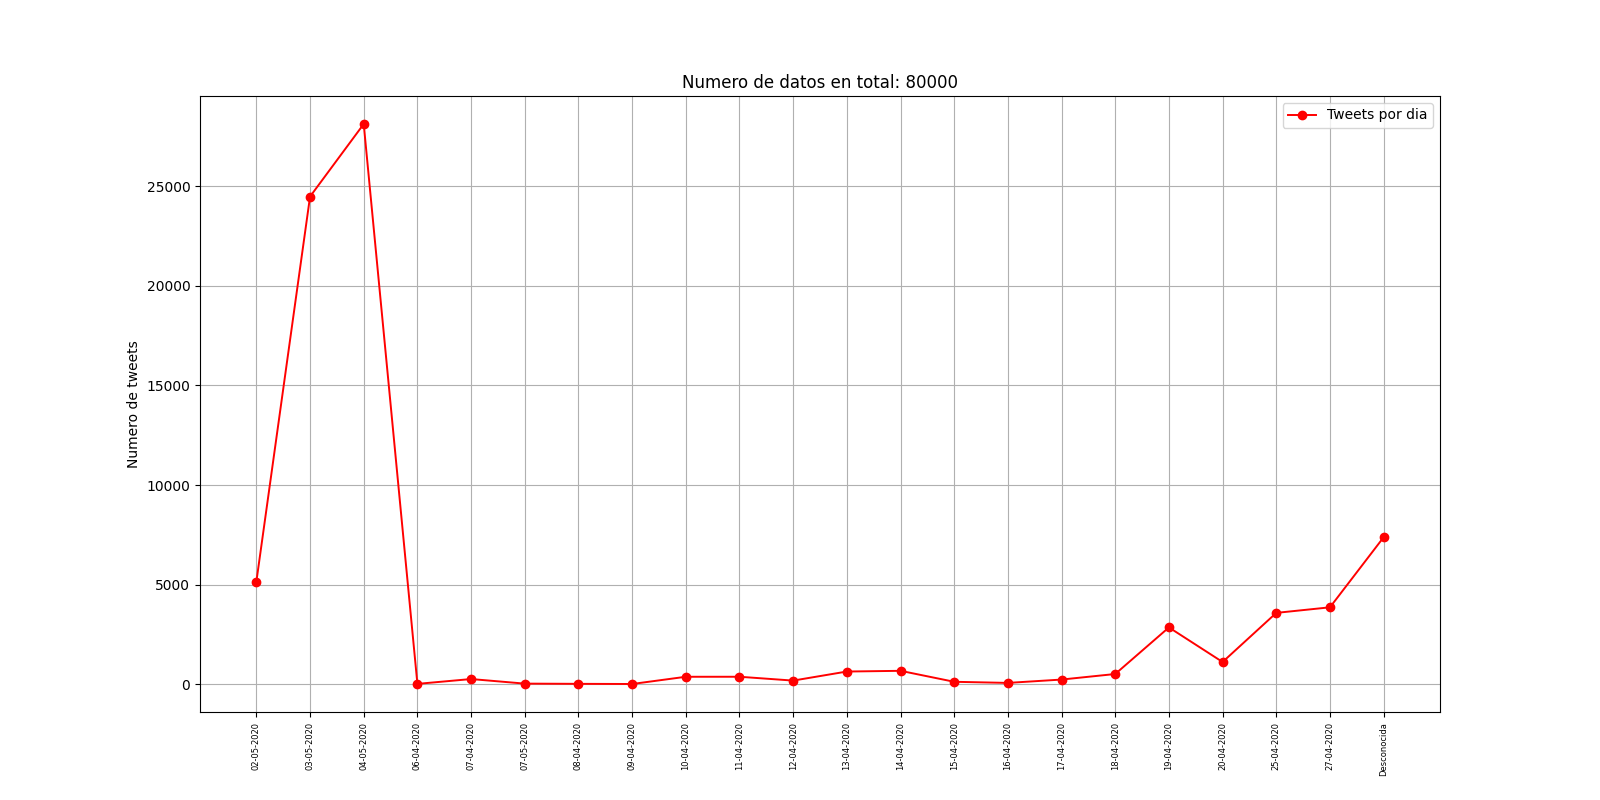
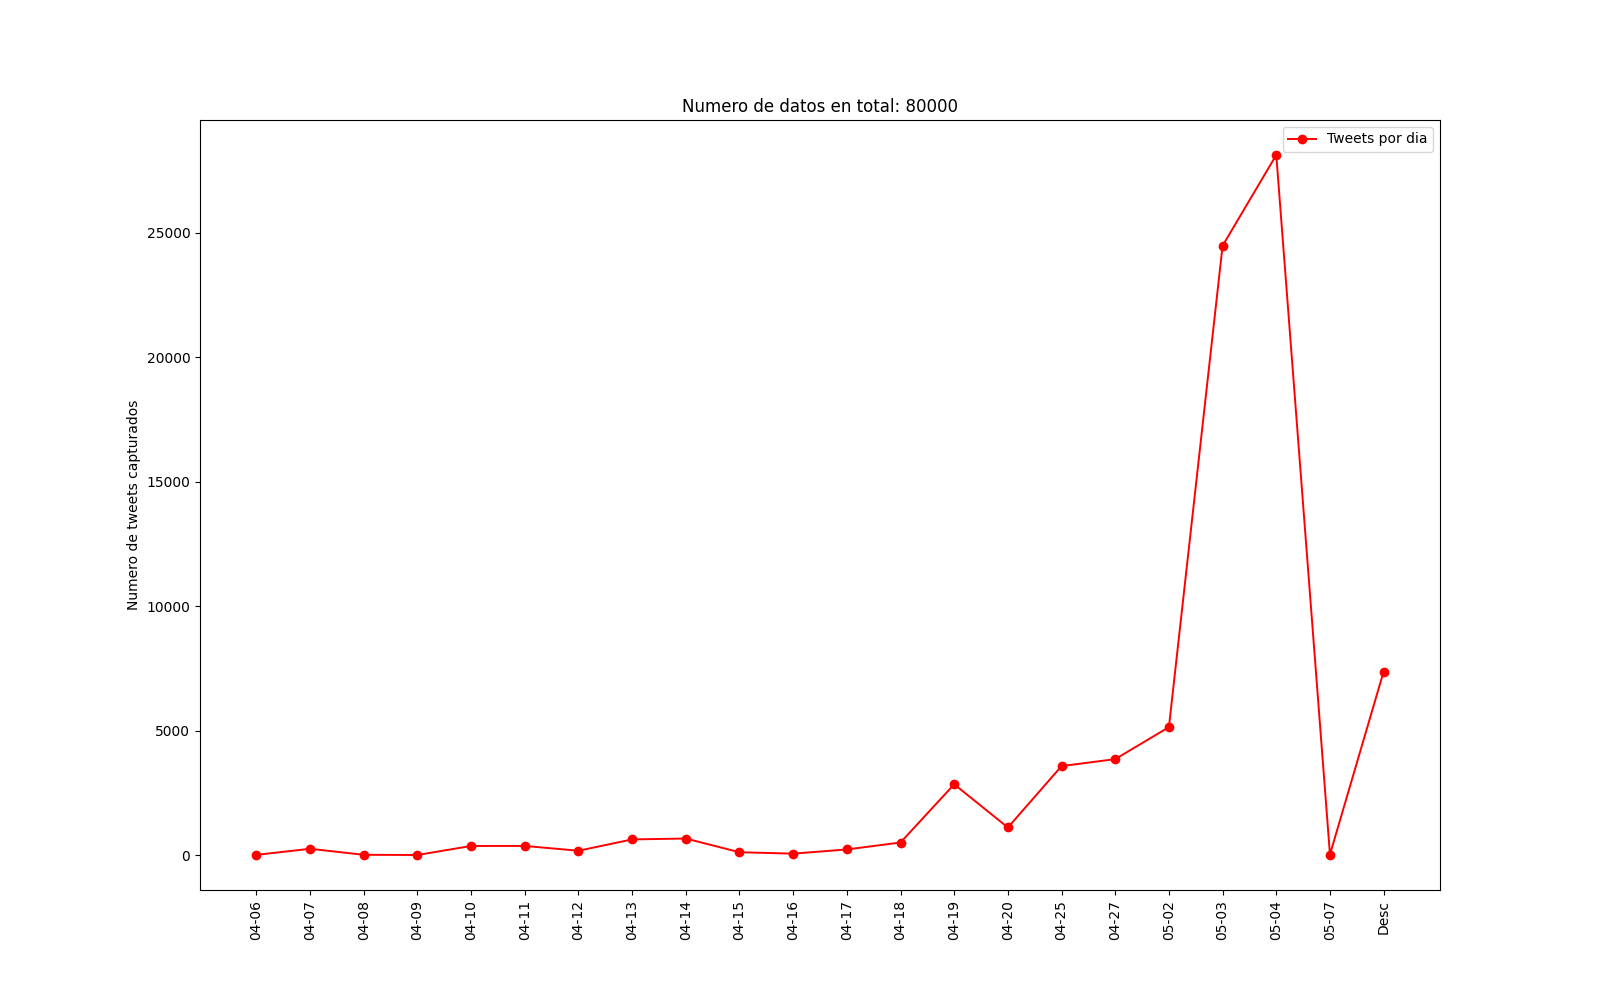
arreglos en la grafica de fechas

diff --git a/captura_de_datos/data_analysis.py b/captura_de_datos/data_analysis.py
@@ -113,13 +113,13 @@ for i, row in df.iterrows():
 
     if type(date_str) is str and date_str != '0':
         date_time_obj = datetime.datetime.strptime(date_str, '%a %b %d %H:%M:%S +0000 %Y')
-        date = date_time_obj.date().strftime("%d-%m-%Y")
+        date = date_time_obj.date().strftime("%m-%d")
         if date in tweets_per_day:
             tweets_per_day[date] += 1
         elif date not in tweets_per_day:
             tweets_per_day[date] = 1
     elif type(date_str) is not str or date_str == '0':
-        key = 'Desconocida'
+        key = 'Desc'
         if key in tweets_per_day:
             tweets_per_day[key] += 1
         elif key not in tweets_per_day:
@@ -177,7 +177,7 @@ print("Generando graficas")
 plt.pie(vector_conteo_idiomas_global, labels=vector_idiomas_global, shadow=True,
         autopct=make_autopct(vector_conteo_idiomas_global))
 plt.title('Numero de datos en total: ' + str(global_count))
-plt.gcf().set_size_inches(16, 8)
+plt.gcf().set_size_inches(14, 8)
 plt.savefig('./graficas_datos/' + originales + '/' + str(usar_muestra) + '_analisis_idiomas.png')
 plt.clf()
 
@@ -185,7 +185,7 @@ del vector_conteo_idiomas_global, vector_idiomas_global
 
 plt.pie(vector_conteo_m, labels=vector_etiquetas_m, shadow=True, autopct=make_autopct(vector_conteo_m))
 plt.title('Numero de datos usados para realizar el preconteo: ' + str(global_count))
-plt.gcf().set_size_inches(16, 8)
+plt.gcf().set_size_inches(14, 8)
 plt.savefig('./graficas_datos/' + originales + '/' + str(usar_muestra) + '_analisis_preconteo_mourning.png')
 plt.clf()
 
@@ -193,7 +193,7 @@ del vector_etiquetas_m, vector_conteo_m
 
 plt.pie(vector_conteo_idiomas, labels=vector_idiomas, shadow=True, autopct=make_autopct(vector_conteo_idiomas))
 plt.title('Numero de datos con cincidencia en el preconteo: ' + str(matched_mourning_tweets))
-plt.gcf().set_size_inches(16, 8)
+plt.gcf().set_size_inches(14, 8)
 plt.savefig('./graficas_datos/' + originales + '/' + str(usar_muestra) + '_analisis_idiomas_preconteo_mourning.png')
 plt.clf()
 
@@ -201,7 +201,7 @@ del vector_idiomas, vector_conteo_idiomas
 
 plt.pie(vector_conteo, labels=vector_etiquetas, shadow=True, autopct=make_autopct(vector_conteo))
 plt.title('Numero de datos en total: ' + str(global_count))
-plt.gcf().set_size_inches(16, 8)
+plt.gcf().set_size_inches(14, 8)
 plt.savefig('./graficas_datos/' + originales + '/' + str(usar_muestra) + '_analisis_paises.png')
 plt.clf()
 
@@ -209,11 +209,10 @@ del vector_conteo, vector_etiquetas
 
 plt.plot(vector_fechas, vector_tweets, '-o', linewidth=1.4, color='red', label='Tweets por dia')
 plt.title('Numero de datos en total: ' + str(global_count))
-plt.xticks(rotation='vertical', fontsize=6)
-plt.ylabel('Numero de tweets')
+plt.xticks(rotation='vertical')
+plt.ylabel('Numero de tweets capturados')
 plt.legend()
-plt.grid()
-plt.gcf().set_size_inches(16, 8)
+plt.gcf().set_size_inches(16, 10)
 plt.savefig('./graficas_datos/' + originales + '/' + str(usar_muestra) + '_analisis_fechas.png')
 plt.clf()
 
